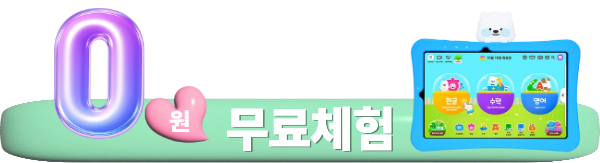
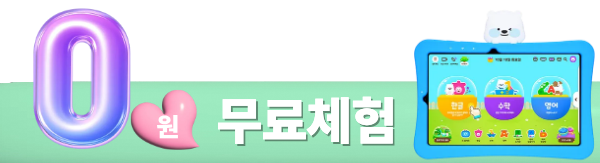
s

diff --git a/index.html b/index.html
@@ -45,6 +45,28 @@
             height: auto;
             display: block;
         }
+        .banner-img-1 {
+            position: relative;
+        }
+        .banner-img-2 {
+            position: absolute;
+            top: 0;
+            left: 0;
+        }
+        .banner-img-1 {
+            animation: fadeInOut 1.4s infinite;
+        }
+        .banner-img-2 {
+            animation: fadeInOut 1.4s infinite 0.7s;
+        }
+        @keyframes fadeInOut {
+            0%, 49.9% {
+                opacity: 1;
+            }
+            50%, 100% {
+                opacity: 0;
+            }
+        }
         .footer {
             width: 600px;
             max-width: 600px;
@@ -107,10 +129,14 @@
         <div class="image-item">
             <img src="images/h-5.png" alt="h-5">
         </div>
+        <div class="image-item">
+            <img src="images/under-banner3.png" alt="under-banner4">
+        </div>
     </div>
     <div class="sticky-banner">
         <div class="banner-wrapper">
-            <img src="images/under-banner3.png" alt="under-banner3">
+            <img src="images/under-banner.png" alt="under-banner" class="banner-img-1">
+            <img src="images/under-banner2.png" alt="under-banner2" class="banner-img-2">
         </div>
     </div>
     <div class="footer">
